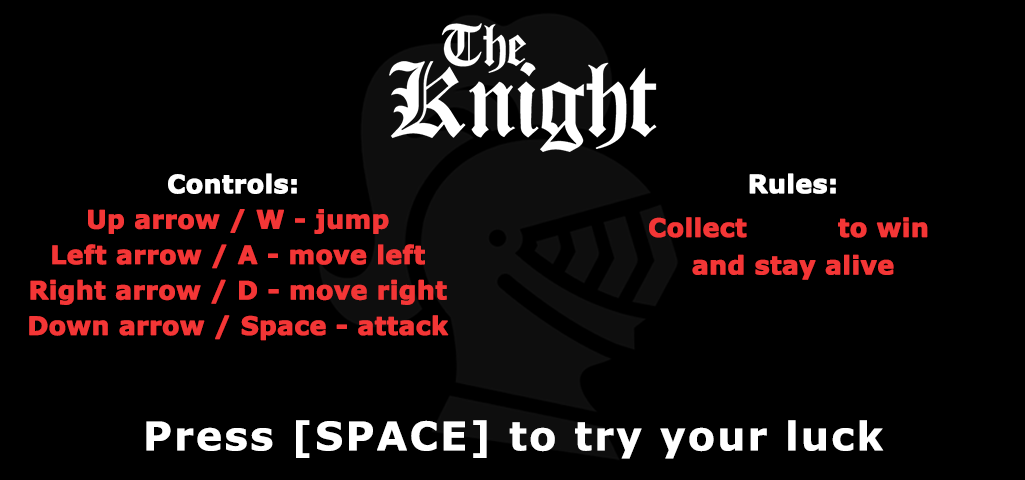
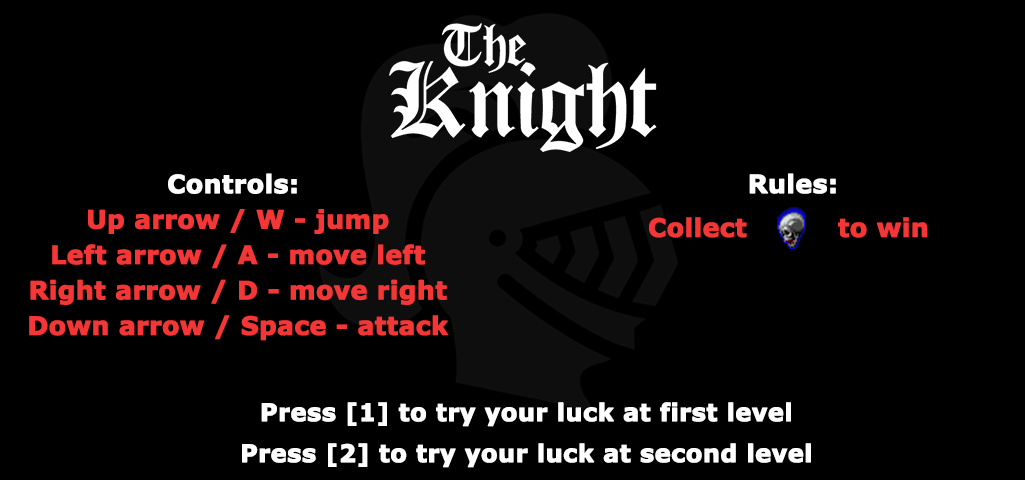
simple game

Changed region(s): [[0.1249, 0.8438, 0.8741, 0.9688], [0.6556, 0.4375, 0.8741, 0.5938]]

diff --git a/gameCode/play.js b/gameCode/play.js
@@ -9,7 +9,8 @@
     let background;
     let level;
     let tiles;
-
+    let winSt;
+    let coll;
     let player;
     let playerX;
     let blobs;
@@ -132,7 +133,7 @@ let playState = {
         mageBullets.setAll('checkWorldBounds', true);
 
 
-        scoreText = game.add.text(16, 16, 'Remains: 0/75', { fontSize: '18px', fill: '#fff' });
+        scoreText = game.add.text(16, 16, 'Remains: 0/ '+ winSt, { fontSize: '18px', fill: '#fff' });
         scoreText.fixedToCamera = true;
 
         heartScale = game.add.group();
@@ -142,7 +143,7 @@ let playState = {
         this.threeLives();
 
         cursors = game.input.keyboard.createCursorKeys();
-        keys = game.input.keyboard.addKeys( { 'up': Phaser.KeyCode.W,'left': Phaser.KeyCode.A, 'right': Phaser.KeyCode.D, 'kick':Phaser.Keyboard.SPACEBAR, /*'suicide': Phaser.KeyCode.S*/});
+        keys = game.input.keyboard.addKeys( { 'up': Phaser.KeyCode.W,'left': Phaser.KeyCode.A, 'right': Phaser.KeyCode.D, 'kick':Phaser.Keyboard.SPACEBAR});
         this.enetetiesPositioning();
 	},
 
@@ -227,10 +228,7 @@ let playState = {
             player.body.velocity.y = -500;
             jumpTimer = game.time.now + 900;
         }
-        // else if (keys.suicide.isDown)
-        // {
-        //     this.killPlayer();
-        // }
+
         else
         {
             //  Stand idle
@@ -272,7 +270,7 @@ let playState = {
         star.kill();
         //  Add and update the score
         score++;
-        scoreText.text = 'Remains: ' + score + '/75';
+        scoreText.text = 'Remains: ' + score + '/'+ winSt;
 	},
 
 
@@ -290,14 +288,7 @@ let playState = {
             enemyDeadSound.play();
             blob.kill();
         }
-        // else if((cursors.down.isDown || keys.kick.isDown) && playerX === 1
-        // && player.body.x < blob.body.x && (!cursors.down.downDuration(100) && !keys.kick.downDuration(100))
-        // && (cursors.down.downDuration(500) || keys.kick.downDuration(500)))
-        // {
-        //     enemyDeadSound.play();
-        //     blob.kill();
-        // }
-        else {
+        else  if (Math.abs(blob.body.x - player.body.x) < 10) {
             this.killPlayer();
         }
     },
@@ -575,4 +566,6 @@ let playState = {
 playState.init = function (data) {
     level = data.level;
     tiles = data.tiles;
+    winSt = data.winState;
+    coll = data.coll;
 };

diff --git a/gameCode/menu.js b/gameCode/menu.js
@@ -3,14 +3,9 @@ let menuState = {
 		// let nameLabel = game.add.text(90, 90, 'The Knight', {fill: '#fff'});
 		// let startLabel = game.add.text(90, 190, 'press W to start',{fill: '#fff'});
 		let menu = game.add.sprite(0, 0, 'menu')
-		let spaceKey = game.input.keyboard.addKey(Phaser.Keyboard.SPACEBAR);
-		let level1Key = game.input.keyboard.addKey(Phaser.KeyCode.W);
-
-
-		level1Key.onDown.addOnce(() => game.state.start('play', true, false, {level: 'level2', tiles: 'tiles2'}));
-		spaceKey.onDown.addOnce(() => game.state.start('play', true, false, {level: 'level1', tiles: 'tiles'}));
-
-	},
-
-
+		let spaceKey = game.input.keyboard.addKey(Phaser.Keyboard.ONE);
+		let level1Key = game.input.keyboard.addKey(Phaser.KeyCode.TWO);
+		level1Key.onDown.addOnce(() => game.state.start('play', true, false, {level: 'level2', tiles: 'tiles2', winState: 13}));
+		spaceKey.onDown.addOnce(() => game.state.start('play', true, false, {level: 'level1', tiles: 'tiles', winState: 75}));
+	}
 }
